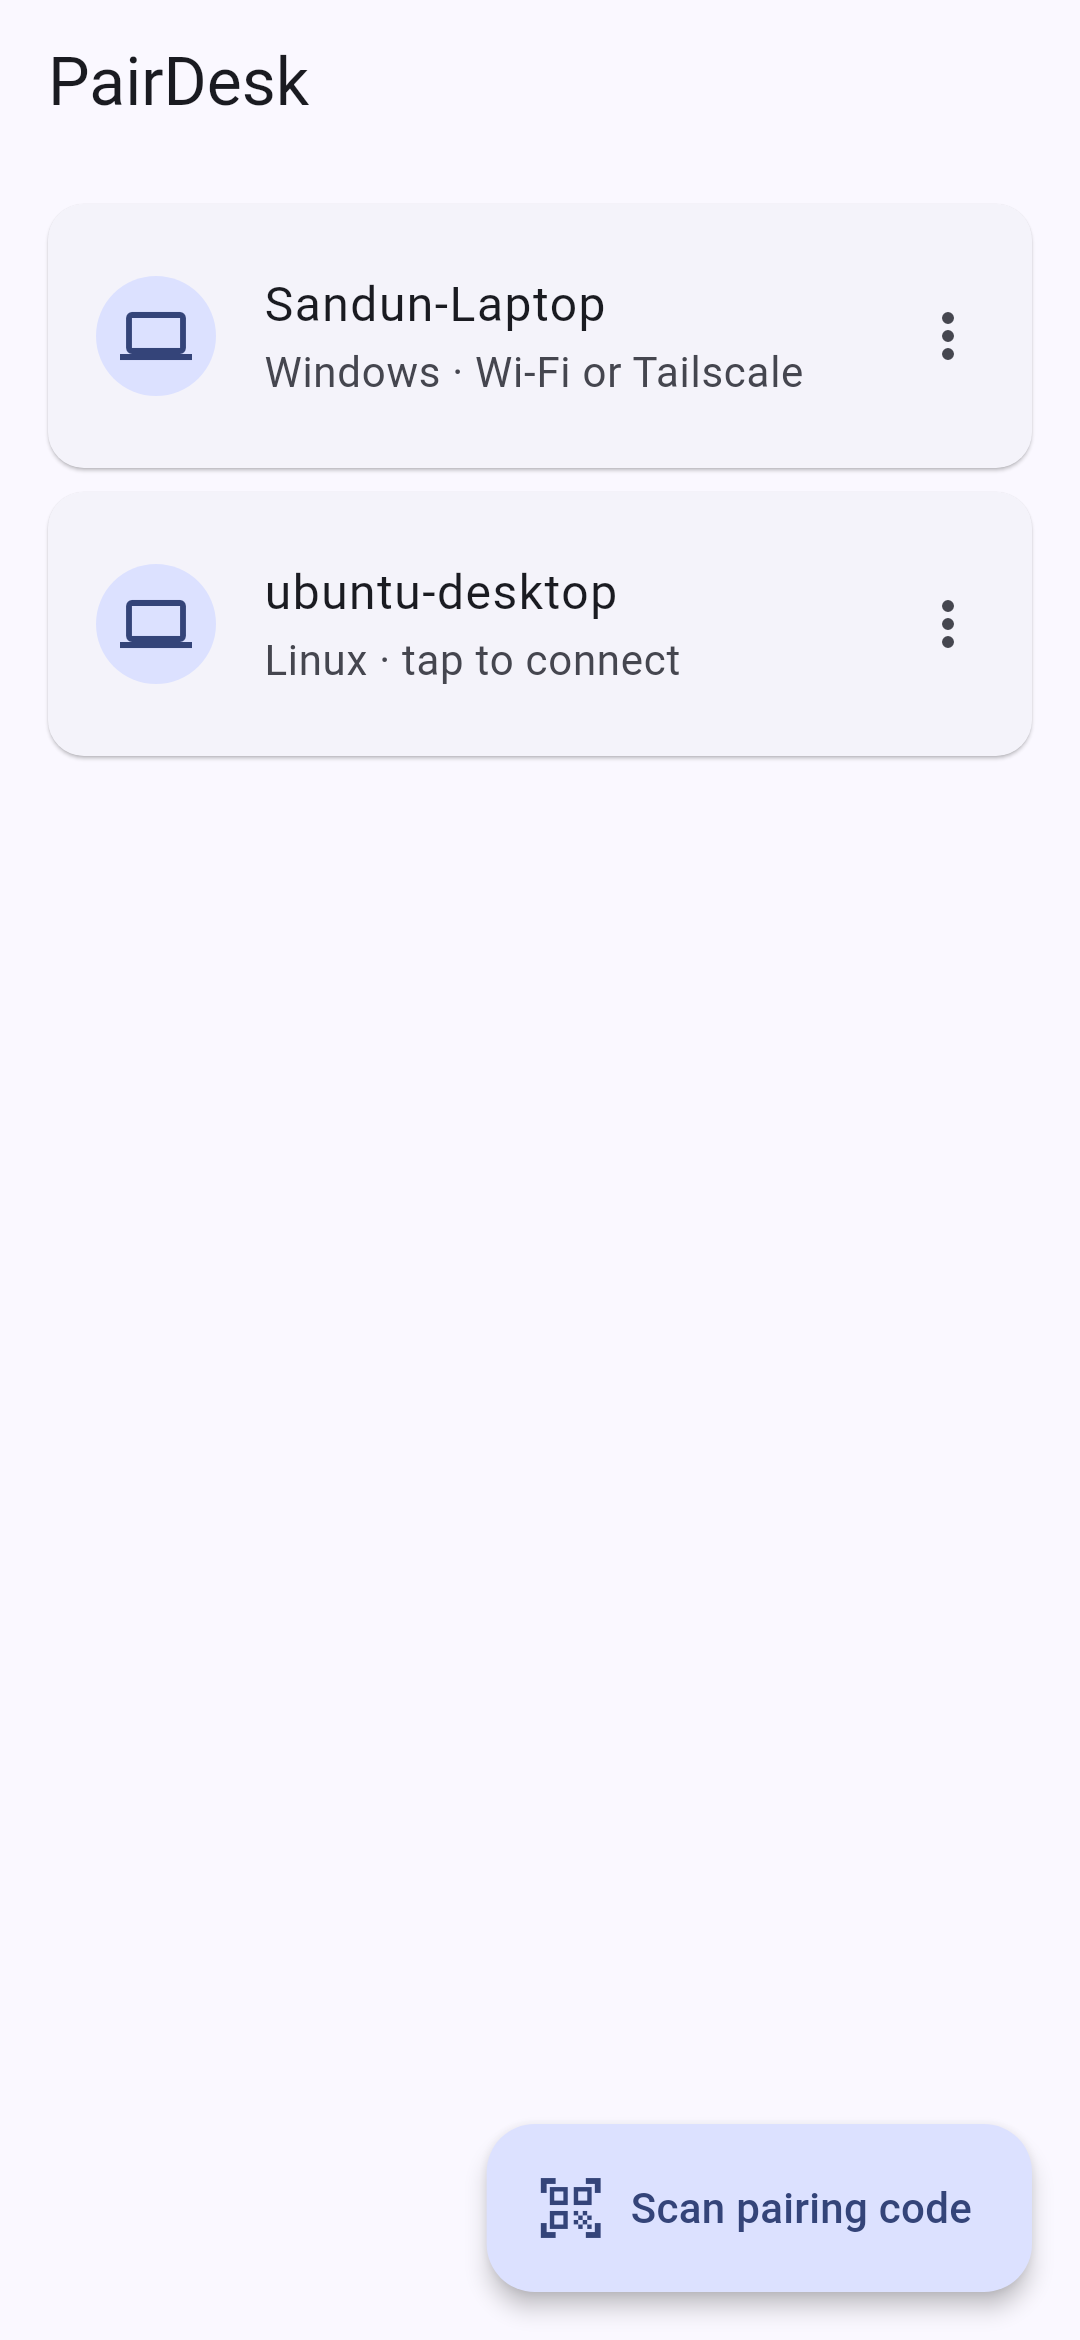
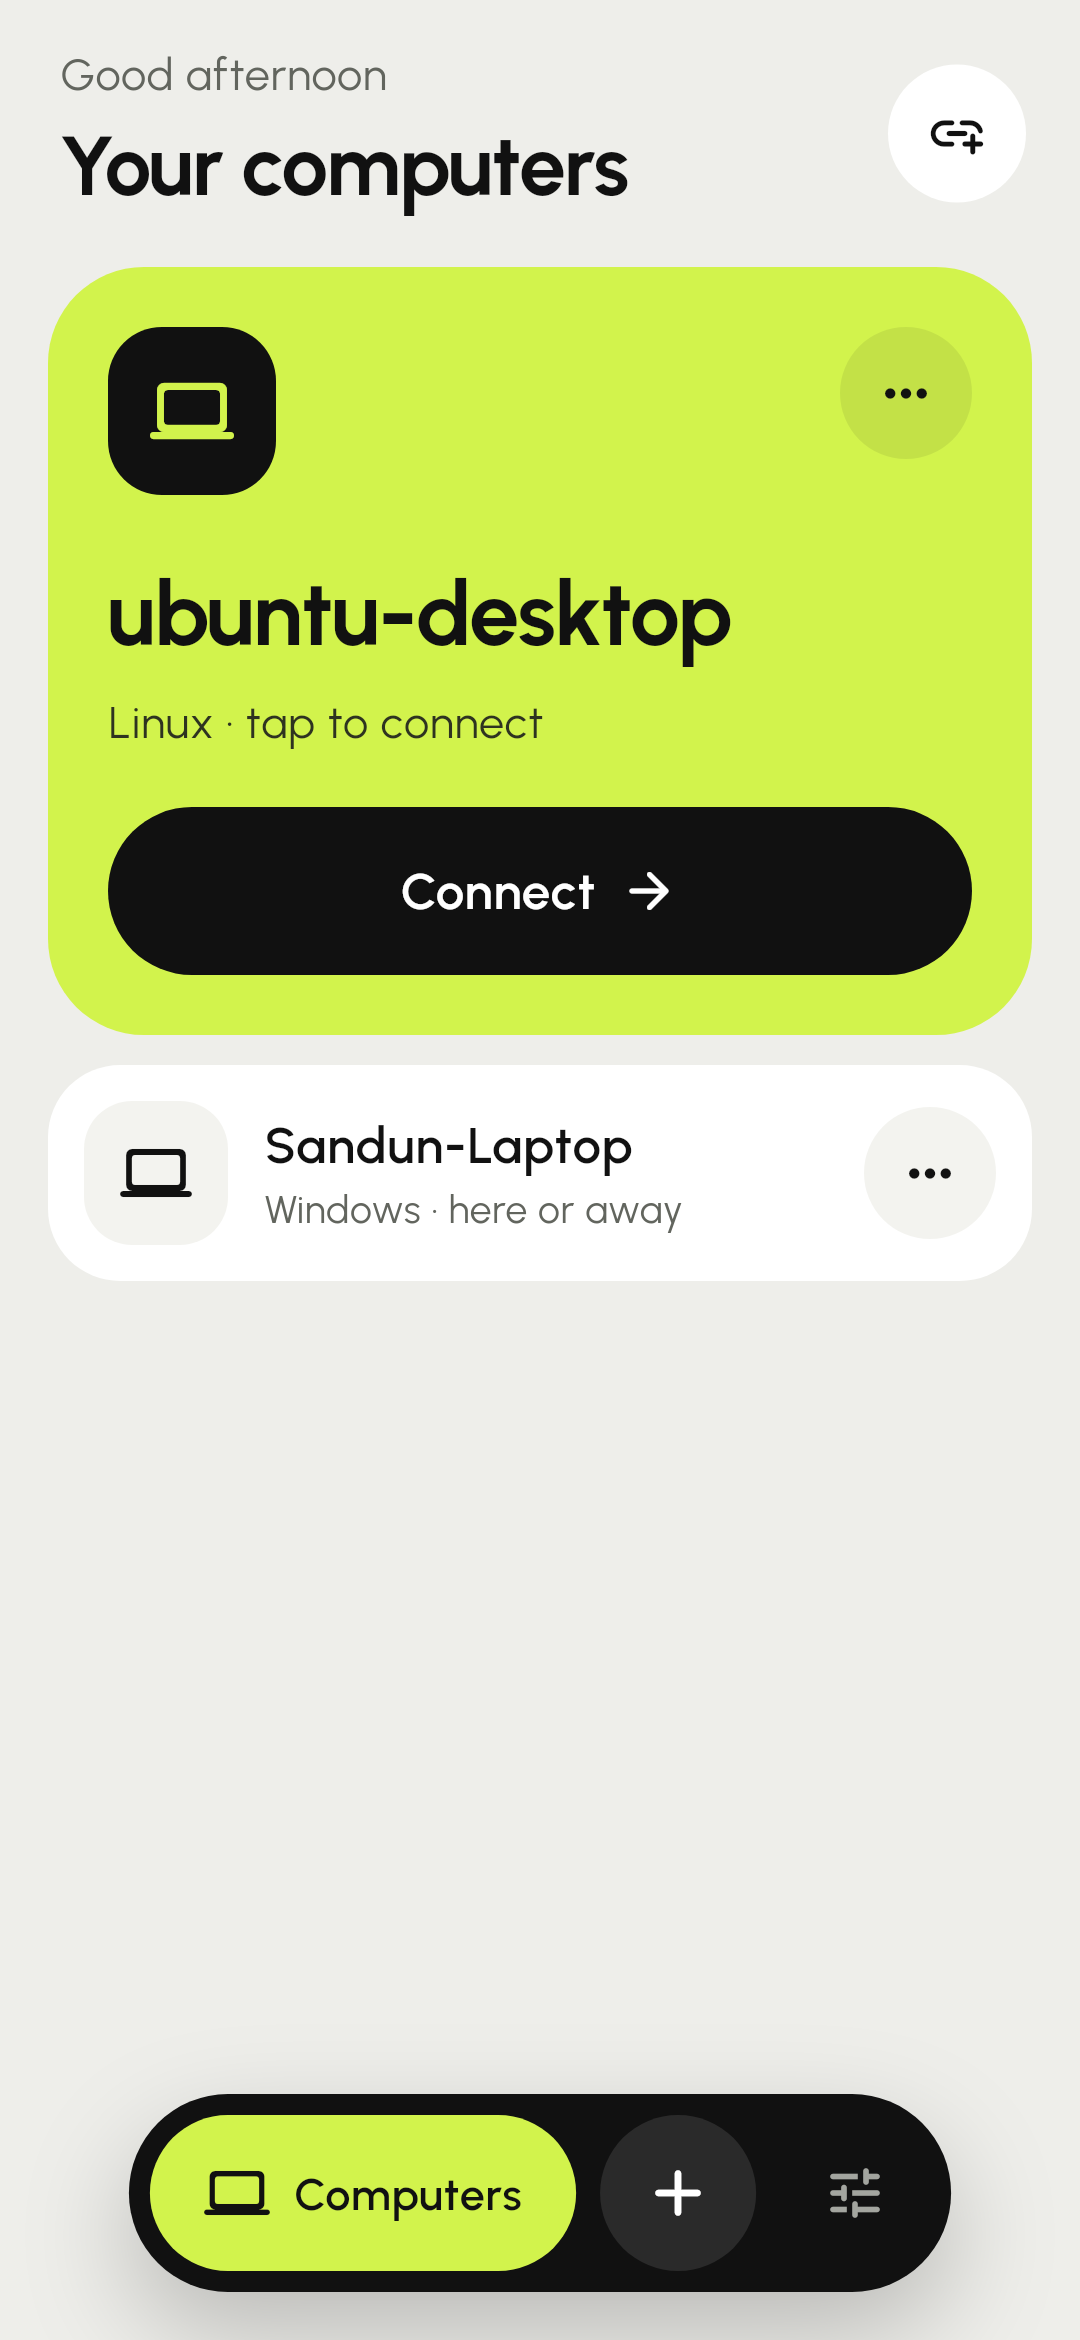
Release 0.12.0: new phone app design, new store screenshots

diff --git a/mobile/test/phase6_widgets_test.dart b/mobile/test/phase6_widgets_test.dart
@@ -128,7 +128,15 @@ void main() {
     final inbox = ShareInbox(take: () async => const SharedItems());
     inbox.put(SharedItems(files: [PickedFile(f.path, 'photo.jpg')]));
     final conn = await show(tester, inbox: inbox);
-    for (var i = 0; i < 5; i++) {
+    // Real file I/O: wait until it lands rather than for a fixed time.
+    for (
+      var i = 0;
+      i < 100 &&
+          (conn.calls.isEmpty ||
+              inbox.pending != null ||
+              find.textContaining('Downloads\\PairDesk').evaluate().isEmpty);
+      i++
+    ) {
       await tester.runAsync(() => Future<void>.delayed(const Duration(milliseconds: 50)));
       await tester.pump();
     }

diff --git a/docs/releases/v0.12.0.md b/docs/releases/v0.12.0.md
@@ -1,0 +1,14 @@
+PairDesk 0.12.0 gives the phone app a new look and a clearer layout. Update the phone; the computer is unchanged and every feature works as before.
+
+### New in 0.12.0
+
+- **A new design.** Soft grey and white with one lime accent, and a matching dark mode that follows your phone's setting. The app has a new font and icon, and a splash screen when it opens.
+- **A bottom bar for everything you do while connected.** Touchpad, Screen, Shortcuts, Files and Sound are always one tap away, so sharing files and hearing the computer are easy to find. Power is at the top right.
+- **Type from the Screen view.** A Type button opens the keyboard on Screen as well as on Touchpad, including full screen.
+- **Computers, Add and Settings** are the home bar; Add opens scan or paste a link.
+- **Motion with a purpose.** Tabs slide, sheets rise, buttons press in, and sound and talking show live activity. With Android's "Remove animations" on, everything simply fades.
+
+### Before you install
+
+- The phone app installs over the old one when both come from the official releases.
+- **Windows:** the setup isn't code-signed yet. If SmartScreen warns, choose *More info → Run anyway*. Check downloads against `SHA256SUMS.txt`.
